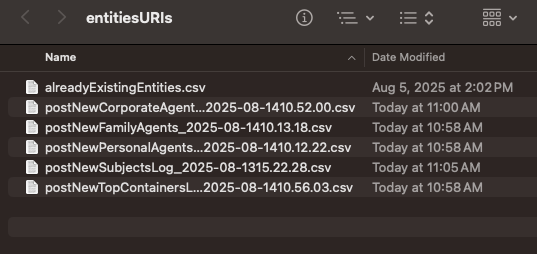
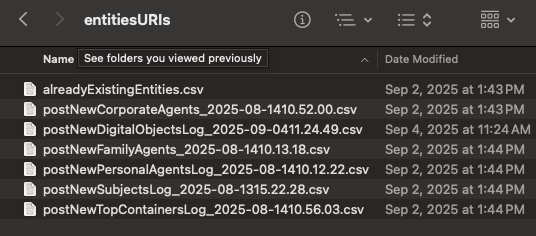
added field to link digital objects to archival objects

diff --git a/docs/csv-templates/archival-object-template.md b/docs/csv-templates/archival-object-template.md
@@ -18,11 +18,12 @@ For template, go to link and then click "Download raw file" on right upper corne
 
 ## :octicons-light-bulb-16: Example of completed `archival_objects.csv`
 
-| title                         | parent                                   | position | repository      | resource                       | level | publish | suppressed | restrictions\_apply | repository\_processing\_note                                                                                                        | dates                                                                  | extents                                                                                               | linked\_agents                                                                     | subjects                       | singlepart\_note                                                                                                                                | multipart\_note                                                                         | instances                                                                                                         |
-|-------------------------------|------------------------------------------|----------|-----------------|--------------------------------|-------|---------|------------|---------------------|-------------------------------------------------------------------------------------------------------------------------------------|------------------------------------------------------------------------|-------------------------------------------------------------------------------------------------------|------------------------------------------------------------------------------------|--------------------------------|-------------------------------------------------------------------------------------------------------------------------------------------------|-----------------------------------------------------------------------------------------|-------------------------------------------------------------------------------------------------------------------|
-| Audio recordings of blue jays | /repositories/3/archival\_objects/326200 | 1        | /repositories/3 | /repositories/3/resources/1821 | file  | True    | False      | False               |                                                                                                                                     | label==creation;;date\_type==inclusive;;begin==2003\-03;;end==2003\-12 | number==26;;portion==whole;;extent\_type==Items;;container\_summary==26 cassettes                     | role==creator;;ref==/agents/people/6453\|\|role==creator;;ref==/agents/people/6454 | /subjects/2437\|/subjects/2727 |                                                                                                                                                 | type==arrangement;;publish==True;;content==Arranged by identified bird\.                |                                                                                                                   |
-| Blue jay feathers             | /repositories/3/archival\_objects/326200 | 3        | /repositories/3 | /repositories/3/resources/1821 | file  | True    | False      | False               | Please note that the actual feathers are held by the Department of Biology and cannot be accessed\. This file is photographs only\. | label==creation;;date\_type==single;;begin==2003                       | number==175;;portion==whole;;extent\_type==photographic\_prints;;container\_summary==175 color photos | role==creator;;ref==/agents/people/6453\|\|role==creator;;ref==/agents/people/6454 | /subjects/2730\|/subjects/2727 | type==physdesc;;publish==True;;content==175 photographs of 57 feathers\.                                                                        | type==arrangement;;publish==True;;content==Arranged by feather identifier\.             |                                                                                                                   |
-| Research data and papers      | /repositories/3/archival\_objects/326200 | 4        | /repositories/3 | /repositories/3/resources/1821 | file  | True    | False      | False               |                                                                                                                                     | label==creation;;date\_type==inclusive;;begin==2001;;end==2004         | number==\.835;;container\_summary==4 folders;;portion==whole;;extent\_type==cubic\_feet               | role==creator;;ref==/agents/corporate\_entities/2018                               |                                | type==materialspec;;publish==True;;content==Includes drafts of the paper, “Are blue jays the rudest birds in Maryland? A scientific approach\.” | type==acqinfo;;publish==True;;content==Processed by Lauren McAwesomeSauce in May 2025\. | ref==/repositories/3/top\_containers/24636;;instance\_type==mixed\_materials;;type\_2==folder;;indicator\_2==1\-4 |
+| title                         | parent                                        | position | repository      | resource                       | level | publish | suppressed | restrictions\_apply | repository\_processing\_note                                                                                                        | dates                                                                  | extents                                                                                               | linked\_agents                                                                     | subjects                       | digital\_objects                                                     | singlepart\_note                                                                                                                                | multipart\_note                                                                         | instances                                                                                                         |
+|-------------------------------|-----------------------------------------------|----------|-----------------|--------------------------------|-------|---------|------------|---------------------|-------------------------------------------------------------------------------------------------------------------------------------|------------------------------------------------------------------------|-------------------------------------------------------------------------------------------------------|------------------------------------------------------------------------------------|--------------------------------|----------------------------------------------------------------------|-------------------------------------------------------------------------------------------------------------------------------------------------|-----------------------------------------------------------------------------------------|-------------------------------------------------------------------------------------------------------------------|
+| Audio recordings of blue jays | /repositories/3/archival\_objects/326200      | 1        | /repositories/3 | /repositories/3/resources/1821 | file  | True    | False      | False               |                                                                                                                                     | label==creation;;date\_type==inclusive;;begin==2003\-03;;end==2003\-12 | number==26;;portion==whole;;extent\_type==Items;;container\_summary==26 cassettes                     | role==creator;;ref==/agents/people/6453\|\|role==creator;;ref==/agents/people/6454 | /subjects/2437\|/subjects/2727 | ref==/repositories/3/digital_objects/15784;;is_representative==False |                                                                                                                                                 | type==arrangement;;publish==True;;content==Arranged by identified bird\.                |                                                                                                                   |
+| Blue jay feathers             | /repositories/3/archival\_objects/326200 | 3        | /repositories/3 | /repositories/3/resources/1821 | file  | True    | False      | False               | Please note that the actual feathers are held by the Department of Biology and cannot be accessed\. This file is photographs only\. | label==creation;;date\_type==single;;begin==2003                       | number==175;;portion==whole;;extent\_type==photographic\_prints;;container\_summary==175 color photos | role==creator;;ref==/agents/people/6453\|\|role==creator;;ref==/agents/people/6454 | /subjects/2730\|/subjects/2727 | ref==/repositories/3/digital_objects/15783;;is_representative==False | type==physdesc;;publish==True;;content==175 photographs of 57 feathers\.                                                                        | type==arrangement;;publish==True;;content==Arranged by feather identifier\.             |                                                                                                                   |
+| Research data and papers      | /repositories/3/archival\_objects/326200      | 4        | /repositories/3 | /repositories/3/resources/1821 | file  | True    | False      | False               |                                                                                                                                     | label==creation;;date\_type==inclusive;;begin==2001;;end==2004         | number==\.835;;container\_summary==4 folders;;portion==whole;;extent\_type==cubic\_feet               | role==creator;;ref==/agents/corporate\_entities/2018                               |                                |                                                                      | type==materialspec;;publish==True;;content==Includes drafts of the paper, “Are blue jays the rudest birds in Maryland? A scientific approach\.” | type==acqinfo;;publish==True;;content==Processed by Lauren McAwesomeSauce in May 2025\. | ref==/repositories/3/top\_containers/24636;;instance\_type==mixed\_materials;;type\_2==folder;;indicator\_2==1\-4 |
+
 
 
 
@@ -305,7 +306,7 @@ Single type notes
 
 ### Columns related to `Instances`
 ??? note "instances"
-    - ArchivesSpace field equivalent: Instances section
+    - ArchivesSpace field equivalent: Add Container Instance
     - Required in CSV: :x: False
     - Allows multiple values: :white_check_mark: True
     - Data type: [Subfield type](../workflow/2-fill-out-templates.md/#subfield-type)
@@ -343,6 +344,22 @@ Single type notes
             - Required in field: :x: False
             - Data type: [String](../workflow/2-fill-out-templates.md/#string)
     - Example: `indicator_2==6;;ref==/repositories/3/top_containers/21451;;instance_type==mixed_materials;;type_2==folder;;is_representative==False`
+
+??? note "digital_objects"
+    - ArchivesSpace field equivalent: Add Digital Object
+    - Required in CSV: :x: False
+    - Allows multiple values: :white_check_mark: True
+    - Data type: [Subfield type](../workflow/2-fill-out-templates.md/#subfield-type)
+    - Allowed subfields:
+        - is_representative
+            - ArchivesSpace field equivalent: Make Representative
+            - Required in field: :x: False
+            - Data type: [Boolean](../workflow/2-fill-out-templates.md/#boolean)
+        - ref
+            - ArchivesSpace field equivalent: Digital Object
+            - Required in field: :white_check_mark: True
+            - Data type: [Ref](../workflow/2-fill-out-templates.md/#ref)
+    - Example: `ref==/repositories/3/digital_objects/15783;;is_representative==False`
 
 ## :octicons-lock-16: Default values
 

diff --git a/docs/workflow/9-update-archival-objects.md b/docs/workflow/9-update-archival-objects.md
@@ -14,7 +14,7 @@ While there are numerous methods you could use to replace entity names with URIs
 ## Preparation
 
 1. Create a new folder somewhere on your computer. In this example, I created a folder called `entitiesURIs` on my Desktop.
-2. Put all of your log CSV files for agents, top containers, and subjects in the new folder. 
+2. Put all of your log CSV files for agents, top containers, subjects, and digital objects in the new folder. 
 3. Find your `alreadyExistingEntities.csv` and also add it to the folder.
 4. Put a copy of your archival-object-template in your `helping-scripts` folder.
 

diff --git a/docs/workflow/7-update-digital-objects.md b/docs/workflow/7-update-digital-objects.md
@@ -4,9 +4,6 @@ hide:
   - toc
 ---
 
-# Coming soon!
-- Linking digital objects to archival objects expected by October 2025.
-
 # Update digital object template with URIs
 
 While there are numerous methods you could use to replace entity names with URIs in the `digital-object-template.csv`, we have a script available that does this automatically using spreadsheets you already have. To do this method, see the steps below.
